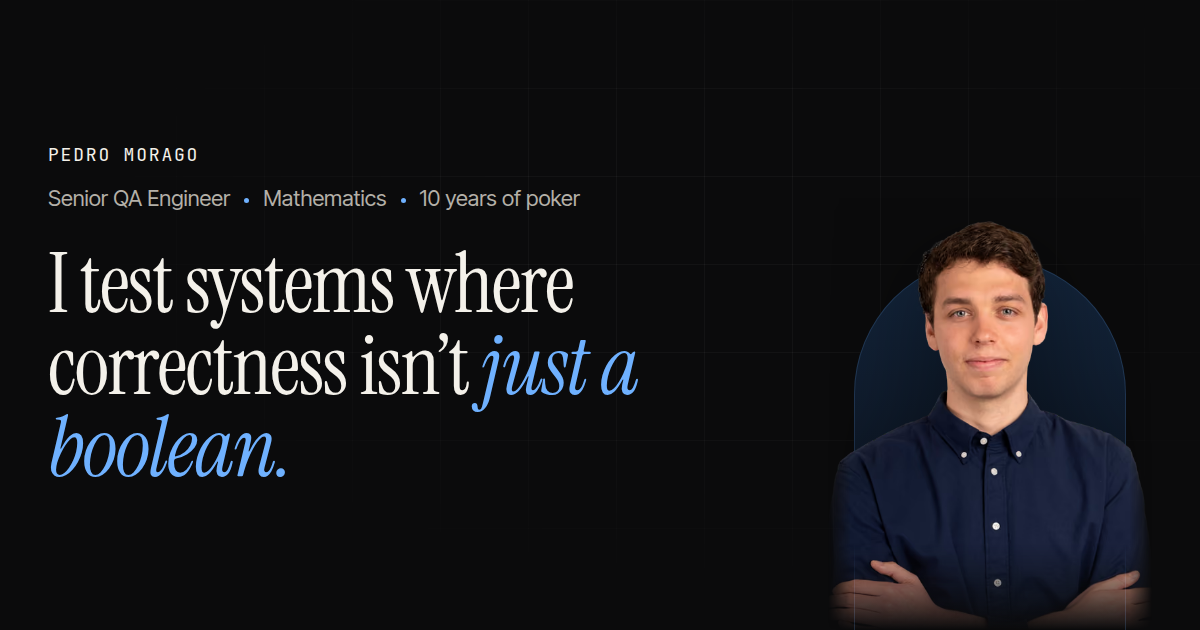
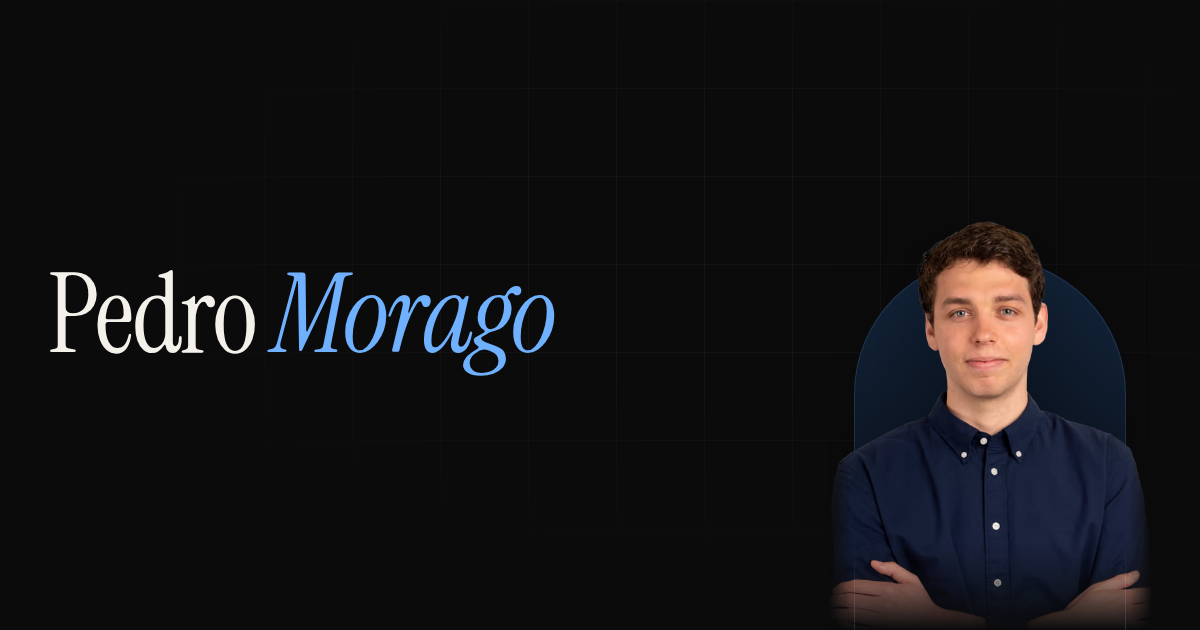
Hero: the name as the title
The hero now opens with Pedro's name, surname in italic, followed by the
description and the buttons. The three-item line and the tagline are gone.

diff --git a/src/styles/global.css b/src/styles/global.css
@@ -2276,39 +2276,9 @@ a:hover > .arrow {
   padding: clamp(48px, 9vh, 104px) 0 clamp(56px, 9vh, 96px);
 }
 
-.hero-who {
-  font-family: var(--mono);
-  font-size: 0.875rem;
-  letter-spacing: 0.1em;
-  text-transform: uppercase;
-  color: var(--text);
-}
-
-.hero-eyebrow {
-  display: flex;
-  flex-wrap: wrap;
-  gap: 6px 0;
-  margin-top: 12px;
-  list-style: none;
-  font-size: clamp(1rem, 1.3vw, 1.125rem);
-  color: var(--text-2);
-}
-
-.hero-eyebrow li + li::before {
-  content: "";
-  display: inline-block;
-  width: 5px;
-  height: 5px;
-  margin: 0 14px 3px;
-  border-radius: 50%;
-  background: var(--accent);
-}
-
 .hero-title {
-  margin-top: 28px;
-  font-size: clamp(3rem, 7.2vw, 6.75rem);
-  line-height: 0.98;
-  max-width: 11.5em;
+  font-size: clamp(3.5rem, 9vw, 8rem);
+  line-height: 0.95;
 }
 
 .hero-title em {
@@ -2659,23 +2629,6 @@ a:hover > .arrow {
   font-size: clamp(2.5rem, 5.6vw, 4.75rem);
   line-height: 1.02;
   max-width: 14em;
-}
-
-@media (max-width: 480px) {
-  .hero-eyebrow {
-    flex-direction: column;
-    gap: 4px;
-  }
-  .hero-eyebrow li::before,
-  .hero-eyebrow li + li::before {
-    content: "";
-    display: inline-block;
-    width: 5px;
-    height: 5px;
-    margin: 0 10px 3px 0;
-    border-radius: 50%;
-    background: var(--accent);
-  }
 }
 
 @media (max-width: 820px) {

diff --git a/scripts/og-image.js b/scripts/og-image.js
@@ -27,9 +27,7 @@ const HOME = `${COMMON}
   .hero { min-height: 630px !important; height: 630px; padding: 0 !important; overflow: hidden; }
   .hero-inner { grid-template-columns: 1.4fr 0.6fr !important; height: 630px; align-items: center !important; }
   .hero-copy { padding: 0 !important; }
-  .hero-title { font-size: 84px !important; margin-top: 26px !important; }
-  .hero-eyebrow { font-size: 22px !important; }
-  .hero-who { font-size: 18px !important; }
+  .hero-title { font-size: 110px !important; }
   .hero .hero-photo { align-self: end !important; max-width: 380px !important; margin: 0 !important; }
 `;
 
